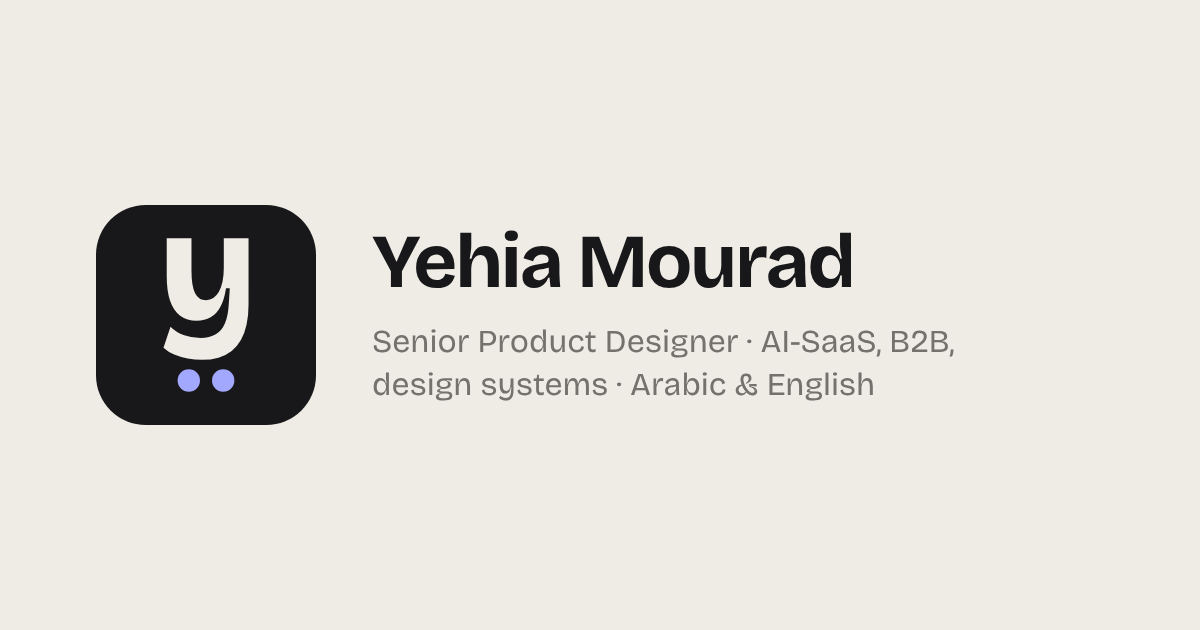
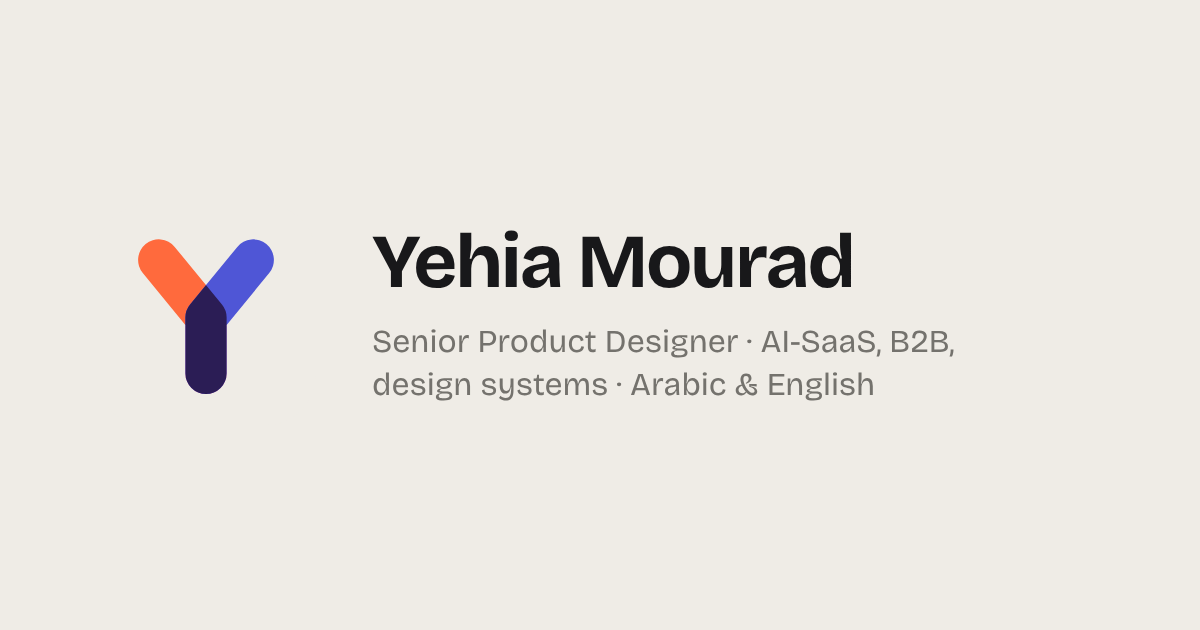
Add files via upload

Changed region(s): [[0.0617, 0.3016, 0.2775, 0.6937]]

diff --git a/index.html b/index.html
@@ -25,7 +25,7 @@
 
 <header class="topbar">
   <div class="wrap">
-    <a class="mark" href="./" aria-label="Yehia Mourad, home"><img src="assets/logo-mark.svg" alt=""></a>
+    <a class="mark" href="./" aria-label="Yehia Mourad, home"><img class="logo-l" src="assets/logo-mark.svg" alt=""><img class="logo-d" src="assets/logo-mark-dark.svg" alt=""></a>
     <nav class="pills" aria-label="Filter tiles">
       <button class="pill on" data-filter="all" data-i18n="f.all">All</button>
       <button class="pill" data-filter="about" data-i18n="f.about">About</button>
@@ -81,7 +81,7 @@
 
   <a class="t w2 h2 proj" data-cat="work" href="case-study.html">
     <!-- Real image: style="background-image:url(assets/pos.png)" on .shot, then delete the .ph div -->
-    <div class="shot" style="background-image:url(assets/pos.png)"><div class="frame"></div></div></div>
+    <div class="shot" style="view-transition-name: pos-cover"><div class="ph ph-1"><div class="frame"></div></div></div>
     <div class="label">
       <div><b data-i18n="p1.title">POS redesign</b><span data-i18n="p1.kind">B2B · RTL</span></div>
       <span class="go"><svg width="16" height="16" viewBox="0 0 24 24" fill="none" stroke="currentColor" stroke-width="2.4" stroke-linecap="round" stroke-linejoin="round"><path d="M5 12h14M13 6l6 6-6 6"/></svg></span>

diff --git a/style.css b/style.css
@@ -389,3 +389,12 @@ html[dir="rtl"] .next-proj .go svg { transform: scaleX(-1); }
 .mark:hover { transform: rotate(-6deg); }
 .cs-mark { position: fixed; top: 20px; inset-inline-start: 20px; z-index: 40; width: 40px; height: 40px; display: block; }
 @media (max-width: 760px) { .cs-mark { top: 12px; inset-inline-start: 12px; } }
+
+/* logo swaps with theme */
+.mark .logo-d { display: none; }
+:root[data-theme="dark"] .mark .logo-l { display: none; }
+:root[data-theme="dark"] .mark .logo-d { display: block; }
+@media (prefers-color-scheme: dark) {
+  :root:not([data-theme="light"]) .mark .logo-l { display: none; }
+  :root:not([data-theme="light"]) .mark .logo-d { display: block; }
+}

diff --git a/case-study.html b/case-study.html
@@ -28,7 +28,7 @@
   - To copy this page for another project: duplicate the file, change the text, and link the tile on index.html to it.
 -->
 
-<a class="mark cs-mark" href="./" aria-label="Yehia Mourad, home"><img src="assets/logo-mark.svg" alt=""></a>
+<a class="mark cs-mark" href="./" aria-label="Yehia Mourad, home"><img class="logo-l" src="assets/logo-mark.svg" alt=""><img class="logo-d" src="assets/logo-mark-dark.svg" alt=""></a>
 
 <div class="cs-tools">
   <button class="chip lang-toggle" type="button" data-i18n="lang.toggle">عربي</button>
